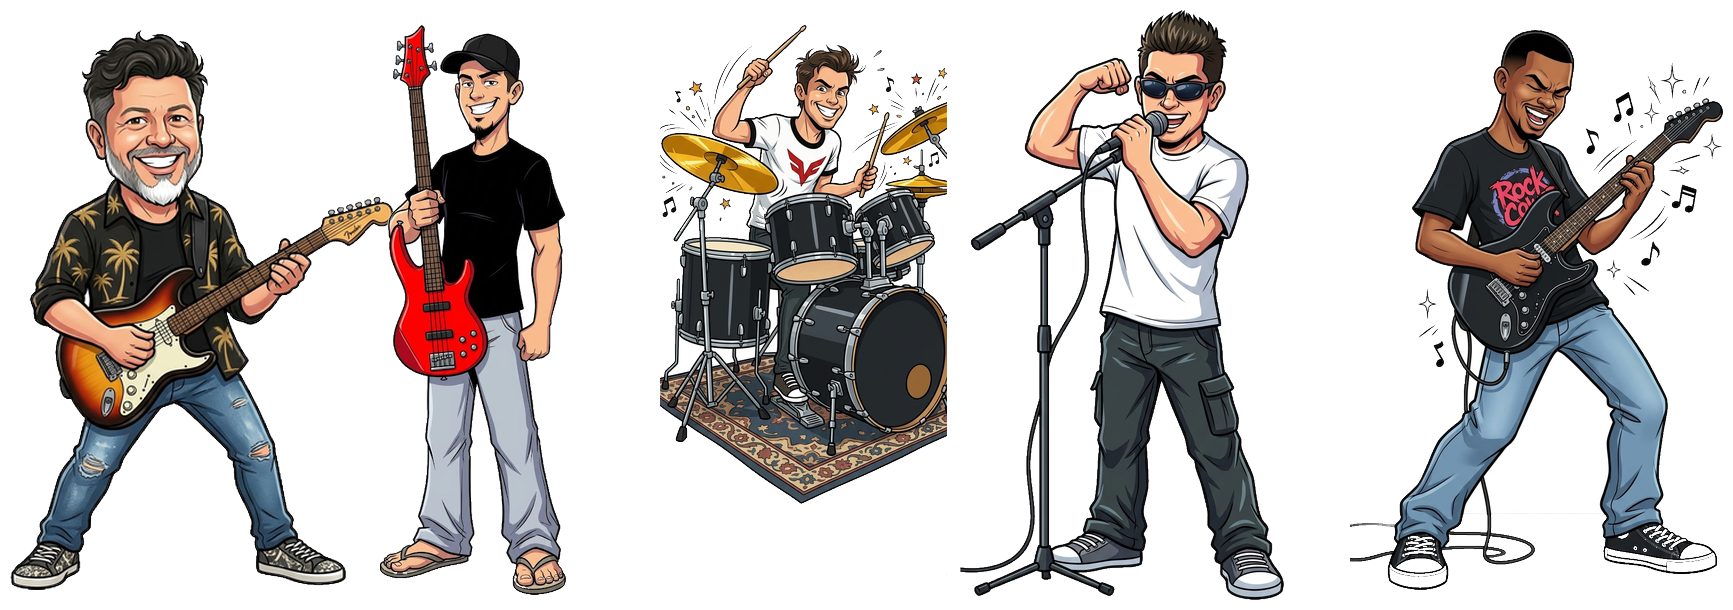
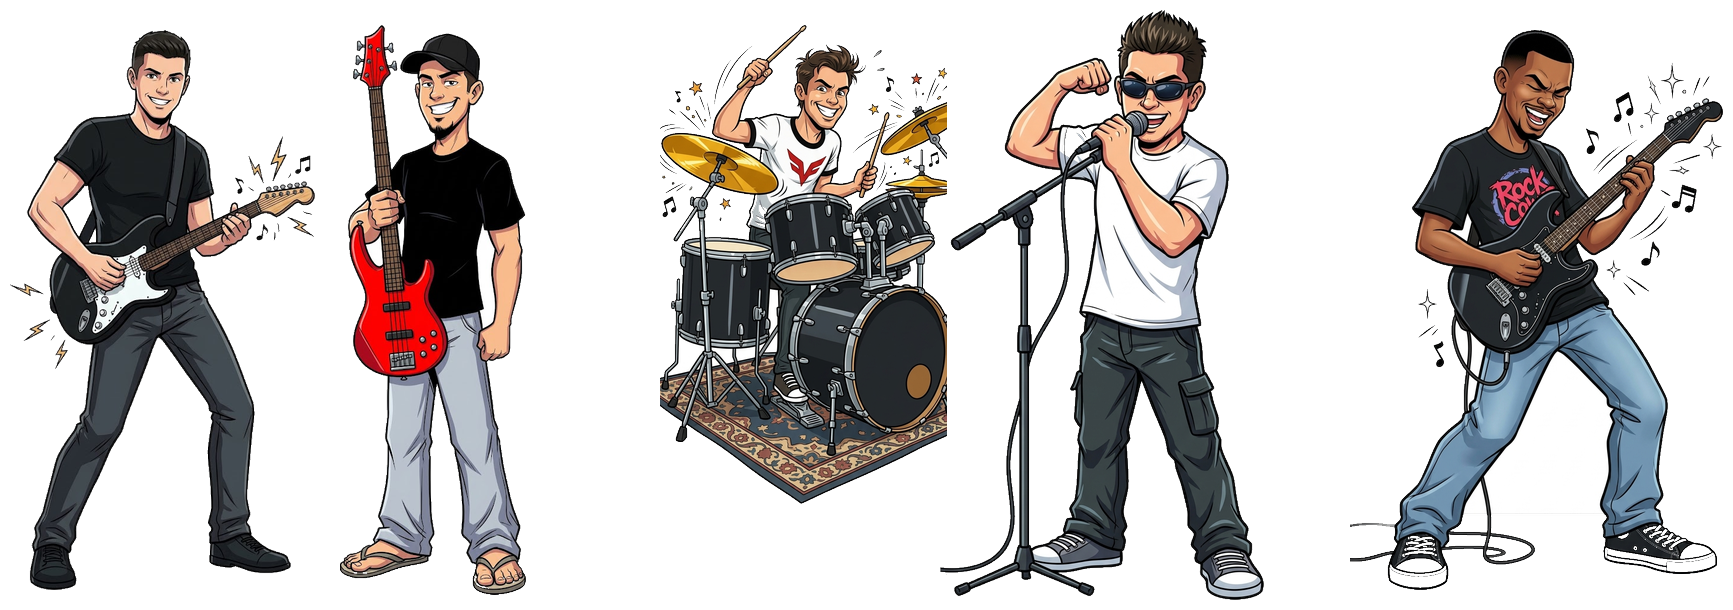
feat(caricatures): atualizar caricatura do Julio e palco completo da 1a formacao com a versao jovem historica

Changed region(s): [[0.0, 0.0311, 0.3428, 0.9967], [0.5297, 0.0, 0.7478, 0.9967]]

diff --git a/site-retorica-main/sw.js b/site-retorica-main/sw.js
@@ -1,4 +1,4 @@
-const CACHE_NAME = 'retorica-v38';
+const CACHE_NAME = 'retorica-v39';
 const ASSETS = [
   './index.html',
   './regras.html',

diff --git a/sw.js b/sw.js
@@ -1,4 +1,4 @@
-const CACHE_NAME = 'retorica-v38';
+const CACHE_NAME = 'retorica-v39';
 const ASSETS = [
   './index.html',
   './regras.html',
